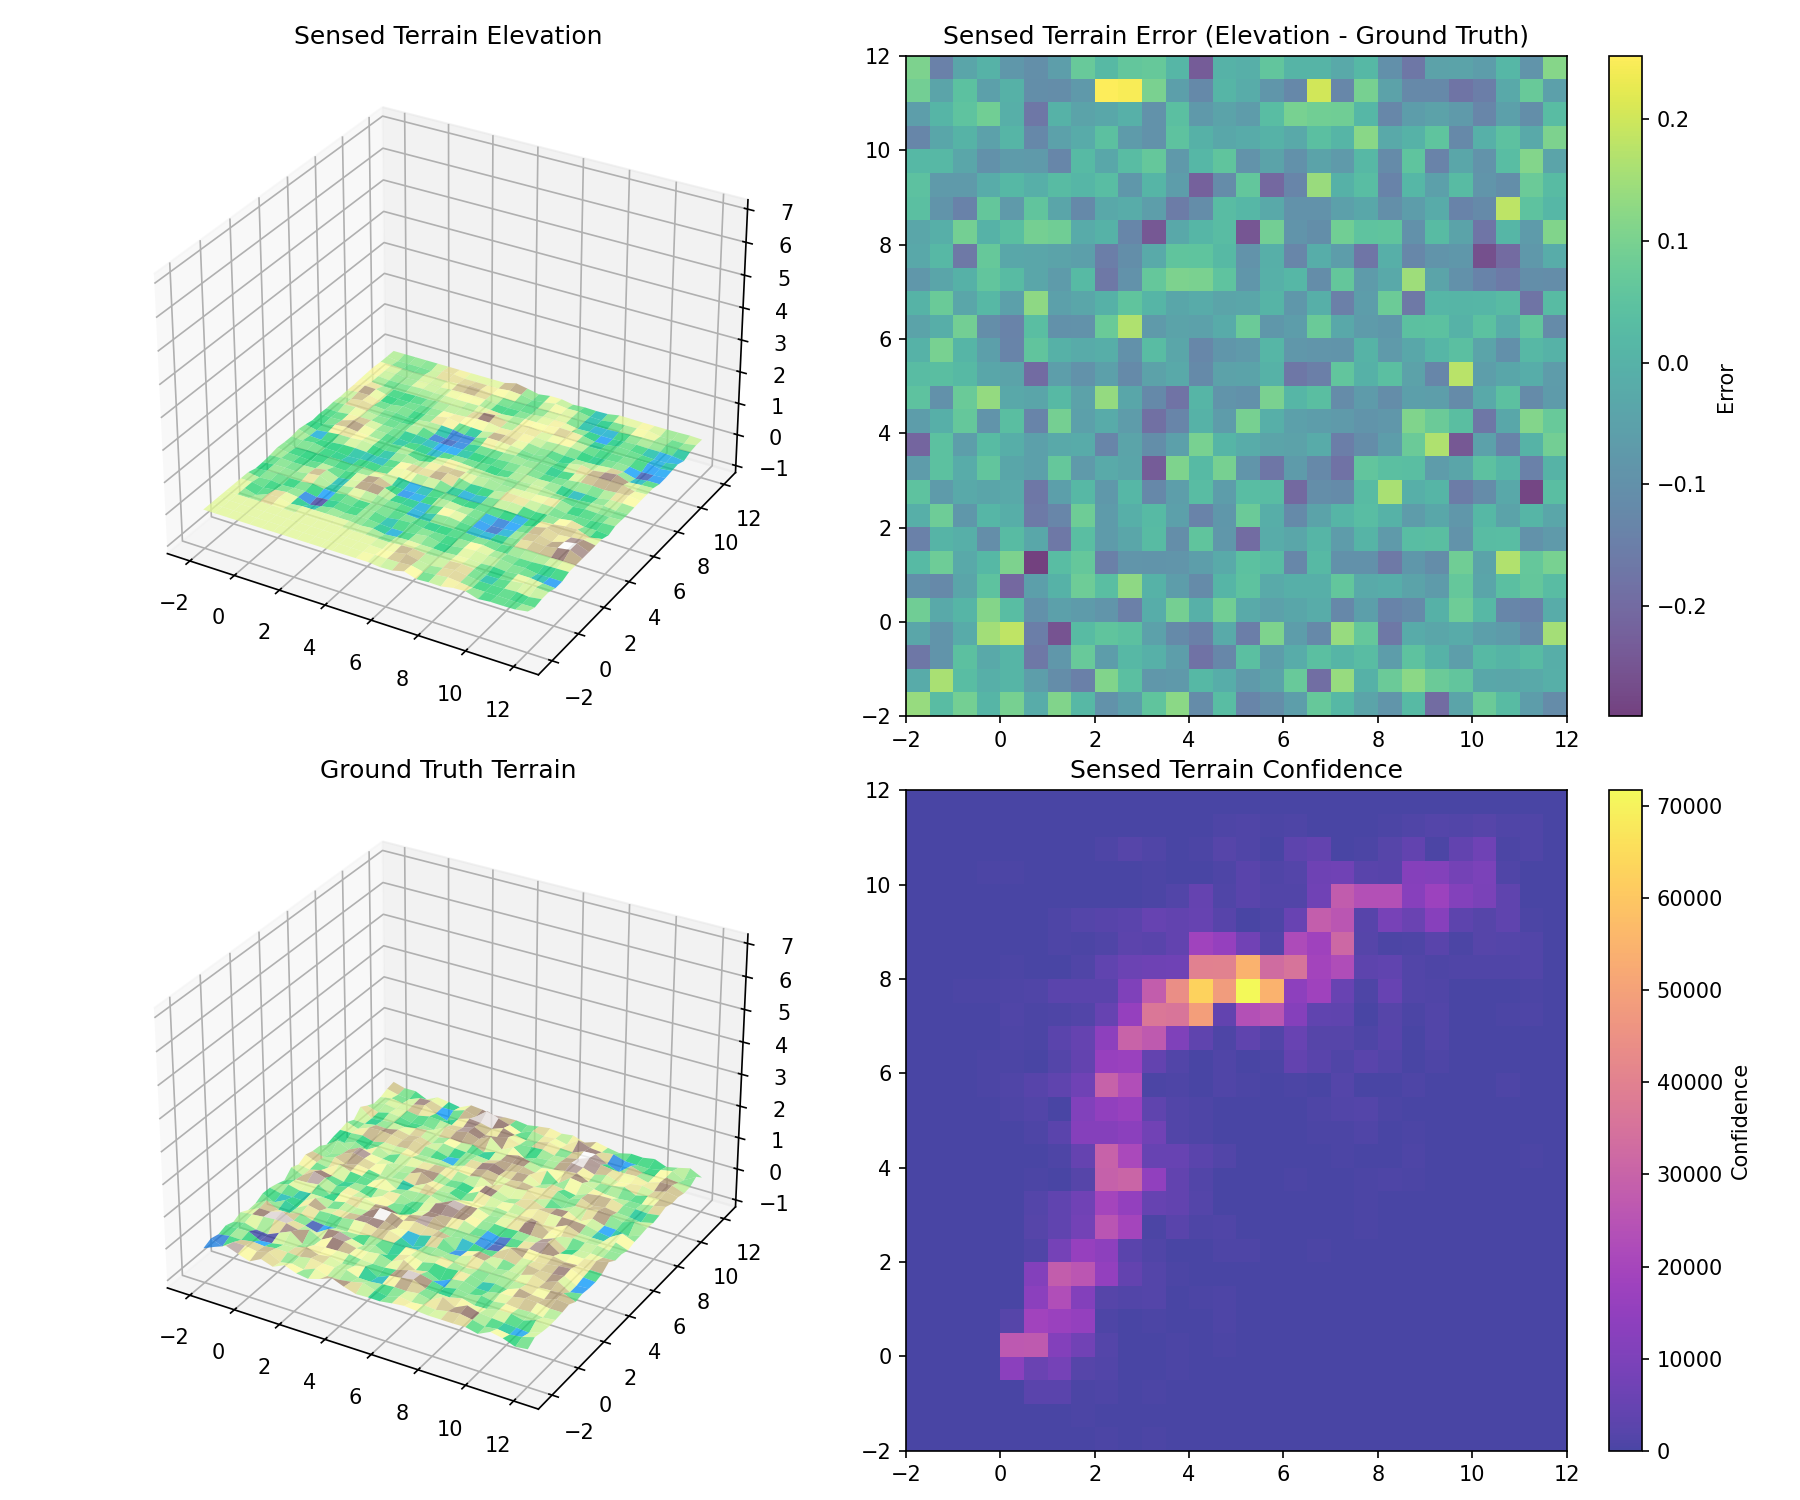
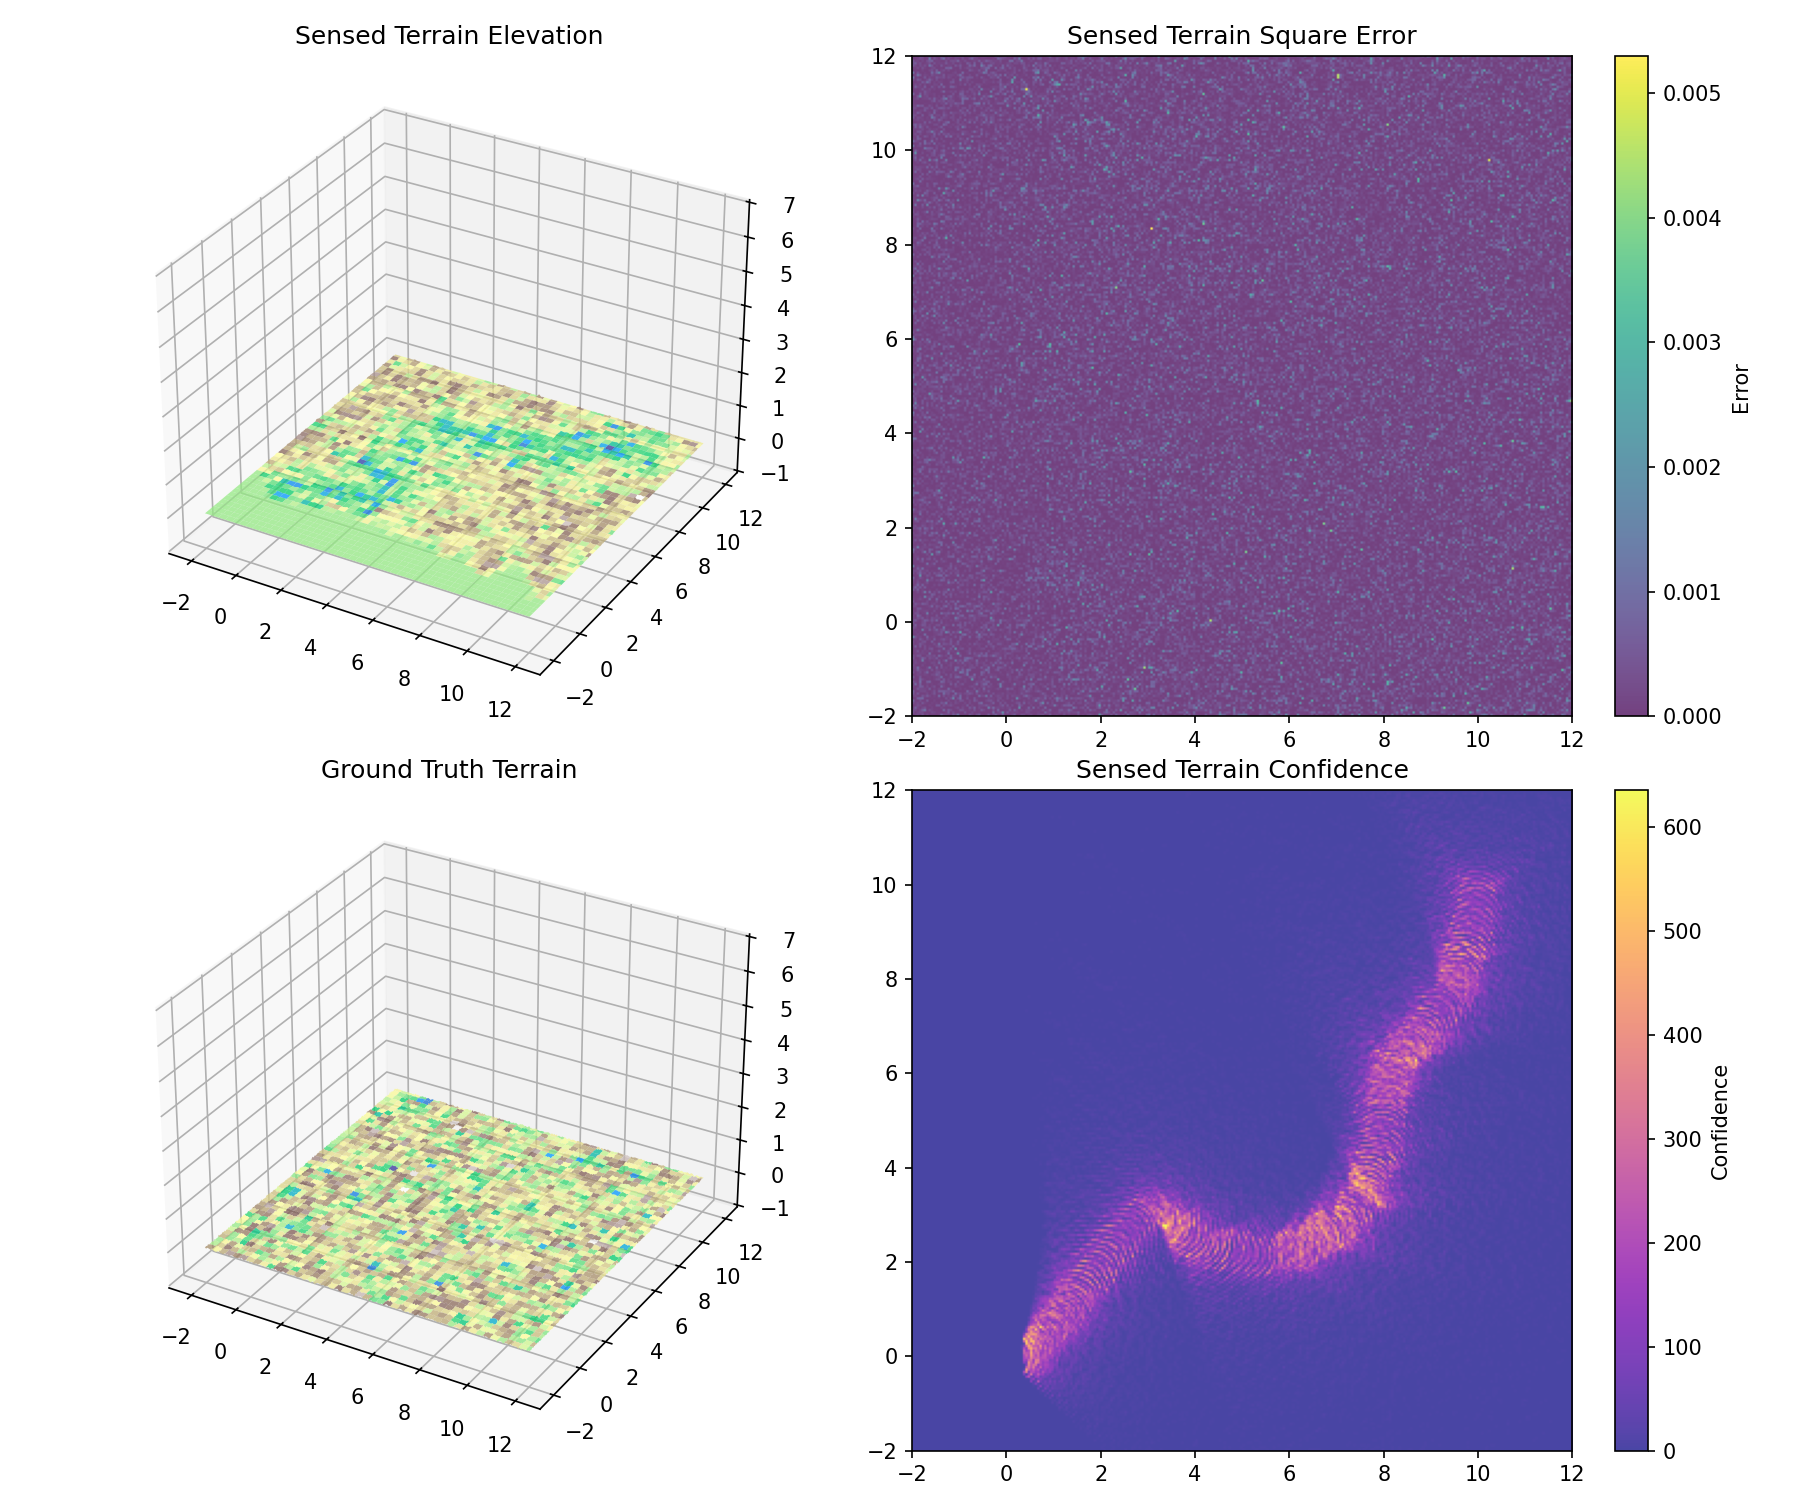
bayesing it on steroids

diff --git a/terrain_estimators/camera.py b/terrain_estimators/camera.py
@@ -1,12 +1,44 @@
 import numpy as np
 from typing import Tuple, Callable
 from numba import cuda, njit
-
-from terrain_estimators.estimator_kernels import (
-    ray_to_terrain_kernel
-)
-
+from terrain_estimators.estimator_kernels import ray_to_terrain_kernel
 from terrain_estimators.traversability_BCM import _compute_attribute_vector
+
+@njit
+def _batch_attribute_vectors(sorted_pts, sorted_dep, boundaries, n_cells):
+    attr_matrix = np.zeros((n_cells, 8), dtype=np.float32)
+    for i in range(n_cells):
+        start = boundaries[i]
+        end   = boundaries[i + 1]
+        n_pts = end - start
+        if n_pts == 0:
+            continue
+        cell_pts = sorted_pts[start:end]
+        mean_dep  = 0.0
+        for k in range(n_pts):
+            mean_dep += sorted_dep[start + k]
+        mean_dep /= n_pts
+        expected_density = max(1.0, 20.0 * (2.0 / max(mean_dep, 0.1)) ** 2)
+        attr_matrix[i] = _compute_attribute_vector(cell_pts, n_pts, expected_density)
+    return attr_matrix
+
+@njit
+def _batch_centers(sorted_pts, boundaries, n_cells):
+    centers = np.zeros((n_cells, 2), dtype=np.float32)
+    for i in range(n_cells):
+        start = boundaries[i]
+        end   = boundaries[i + 1]
+        if end == start:
+            continue
+        sx = 0.0; sy = 0.0
+        for k in range(start, end):
+            sx += sorted_pts[k, 0]
+            sy += sorted_pts[k, 1]
+        n = end - start
+        centers[i, 0] = sx / n
+        centers[i, 1] = sy / n
+    return centers
+
 
 class Camera:
     def __init__(self, focal_length: float, sensor_size: Tuple[float, float], image_size: Tuple[int, int],
@@ -188,22 +220,21 @@ class Camera:
         row_idx = np.clip((points[:, 1] - ymin) / cell_size, 0, n_rows - 1).astype(int)
         cell_ids = row_idx * n_cols + col_idx
 
-        unique_cells = np.unique(cell_ids)
-        scores = np.zeros(unique_cells.shape[0], dtype=np.float32)
-        centers = np.zeros((unique_cells.shape[0], 2), dtype=np.float32)
+        unique_cells, inverse = np.unique(cell_ids, return_inverse=True)
+        n_cells = len(unique_cells)
 
-        for i, cell_id in enumerate(unique_cells):
-            mask = (cell_ids == cell_id)
-            cell_points = points[mask]
-            cell_depths = depths[mask]
+        # Sort points by cell so each cell's points are contiguous
+        sort_idx = np.argsort(inverse, kind='stable')
+        sorted_inv = inverse[sort_idx]
+        sorted_pts = points[sort_idx]
+        sorted_dep = depths[sort_idx]
 
-            centers[i,0] = cell_points[:, 0].mean()
-            centers[i,1] = cell_points[:, 1].mean()
+        # Cell boundaries in the sorted array
+        boundaries = np.searchsorted(sorted_inv, np.arange(n_cells + 1))
 
-            mean_depth = np.mean(cell_depths)
-            expected_density = max(1.0, 20.0 * (2.0 / max(mean_depth, 0.1)) ** 2)
+        # Build per-cell attribute matrix and centers in one vectorized pass
+        attr_matrix = _batch_attribute_vectors(sorted_pts, sorted_dep, boundaries, n_cells)
+        centers = _batch_centers(sorted_pts, boundaries, n_cells)
 
-            attributes = _compute_attribute_vector(cell_points, cell_points.shape[0], expected_density)
-            scores[i] = classifier.score(attributes)[0]
-        
-        return scores, centers
+        scores = classifier.score(attr_matrix).ravel()
+        return scores.astype(np.float32), centers

diff --git a/src/dynProbMPPI_test.py b/src/dynProbMPPI_test.py
@@ -177,6 +177,8 @@ for step in range(num_steps):
         np.array([obs.position.copy() for obs in env.obstacles])
     )
 
+    _t0 = time.perf_counter()
+
     if step % perception_interval == 0:
         point_cloud = cam.get_point_cloud(
             robot_position=x[:2],
@@ -186,20 +188,28 @@ for step in range(num_steps):
             heightmap_cell_size=env_cell_size,
             noise_sigma=0.1
         )
+        _t_pcl = time.perf_counter()
         dem.fuse_point_cloud(point_cloud)
+        _t_fuse = time.perf_counter()
 
         # classify point cloud
+        classify_cell_size = 0.5
         scores, centers = cam.classify_point_cloud(
             point_cloud=point_cloud,
             classifier=classifier,
-            cell_size=env_cell_size
+            cell_size=classify_cell_size
         )
+        _t_classify = time.perf_counter()
 
         # Add classification costs to DEM cost grid
         for i in range(len(centers)):
             r,c = dem.world_to_grid(centers[i])
             if dem.point_in_bounds(r,c):
                 dem.traversability_overlay[r, c] = scores[i]  # weight for traversability cost
+
+        if step % 20 == 0:
+            print(f"  [perception] pcl={1e3*(_t_pcl-_t0):.1f}ms  fuse={1e3*(_t_fuse-_t_pcl):.1f}ms  "
+                  f"classify={1e3*(_t_classify-_t_fuse):.1f}ms ({len(centers)} cells)")
 
     # Online Learning for Classifier
     r,c = dem.world_to_grid(x[:2])
@@ -233,6 +243,7 @@ for step in range(num_steps):
                 desired_vel=v_cmd,
                 actual_vel=v_cmd,
             )
+    _t_online = time.perf_counter()
 
     # --- Waypoint Selection ---
     obs_positions = np.array([obs.position for obs in env.obstacles])
@@ -250,9 +261,9 @@ for step in range(num_steps):
             obs_radii=obs_radii,
             terrain_cost_fn=dem.get_cost_at_points
         )
+    _t_wp = time.perf_counter()
 
     subgoal_log.append(subgoal)
-
     mppi_target = x_goal.copy()
     mppi_target[:2] = subgoal
 
@@ -290,13 +301,12 @@ for step in range(num_steps):
 
     if step % 20 == 0:
         rollout_snapshots[step] = mppi.get_rollout_snapshot(n=50)
+        _t_mppi = end - start
         print(f"Step {step}: pos=({x[0]:.2f},{x[1]:.2f}), "
               f"Subgoal=({subgoal[0]:.2f},{subgoal[1]:.2f}), "
               f"position_error={np.linalg.norm(x[:2]-x_goal[:2]):.2f}, "
-              f"orientation=({x[3]*180/np.pi:.1f}deg, {x[4]*180/np.pi:.2f}deg), "
-              f"covariance={cov}, "
               f"safe={is_safe}, "
-              f"time per step={end-start:.3f}s")
+              f"online={1e3*(_t_online-_t0):.1f}ms  wp={1e3*(_t_wp-_t_online):.1f}ms  mppi={1e3*_t_mppi:.1f}ms")
         
     if step % 50 == 0 & step > 0:
         recent_disp = np.linalg.norm(trajectory[-1][:2] - trajectory[-50][:2])
@@ -521,7 +531,7 @@ X, Y = np.meshgrid(x_coords, y_coords, indexing='ij')
 fig = plt.figure(figsize=(12, 10))
 ax1 = fig.add_subplot(2, 2, 1, projection='3d')
 ax1.set_title("Sensed Terrain Elevation")
-ax1.plot_surface(X, Y, dem.elevation.T, cmap="terrain", alpha=0.75)
+ax1.plot_surface(X, Y, dem.elevation, cmap="terrain", alpha=0.75)
 ax1.set_zlim(np.min(env.terrain)-1, np.max(env.terrain)+7)
 ax2 = fig.add_subplot(2, 2, 2)
 ax2.set_title("Sensed Terrain Square Error")

diff --git a/environments/dynamicEnv_probabilistic.py b/environments/dynamicEnv_probabilistic.py
@@ -400,7 +400,7 @@ class ProbabilisticEnv:
         terrain_goalpos_x = int((10.0-xmin) / self.dx) # Change this if the goal is not at (10,10)
         terrain_goalpos_y = int((10.0-ymin) / self.dy) # Change this if the goal is not at (10,10)
 
-        self.terrain = 0.5*np.linalg.norm(np.array([self.dx, self.dy]))*np.random.randn(terrain_size_x, terrain_size_y).astype(np.float32)
+        self.terrain = 0.2*np.linalg.norm(np.array([self.dx, self.dy]))*np.random.randn(terrain_size_x, terrain_size_y).astype(np.float32)
 
 
     def get_visualization_data(self) -> dict:

diff --git a/controllers/mppi_dynObs.py b/controllers/mppi_dynObs.py
@@ -424,7 +424,7 @@ class MPPIDynObs:
         cuda.synchronize()
         t6 = time.perf_counter()
         # print(f"MPPI solve timings (s): sample_gen={1000*(t1-t0):.1f}ms, "
-        #      f"obs_rollout={1000*(t2-t1):.1f}ms, rollout={1000*(t3-t2):.1f}ms, terrain_sample={1000*(t4-t3):.1f}ms, cost={1000*(t5-t4):.1f}ms, cpu={1000*(t6-t5):.1f}ms")
+        #      f"obs_rollout={1000*(t2-t1):.1f}ms, rollout={1000*(t3-t2):.1f}ms, cost={1000*(t5-t3):.1f}ms, cpu={1000*(t6-t5):.1f}ms")
 
         if return_trajectory:
             return u_opt, trajectory, is_safe
